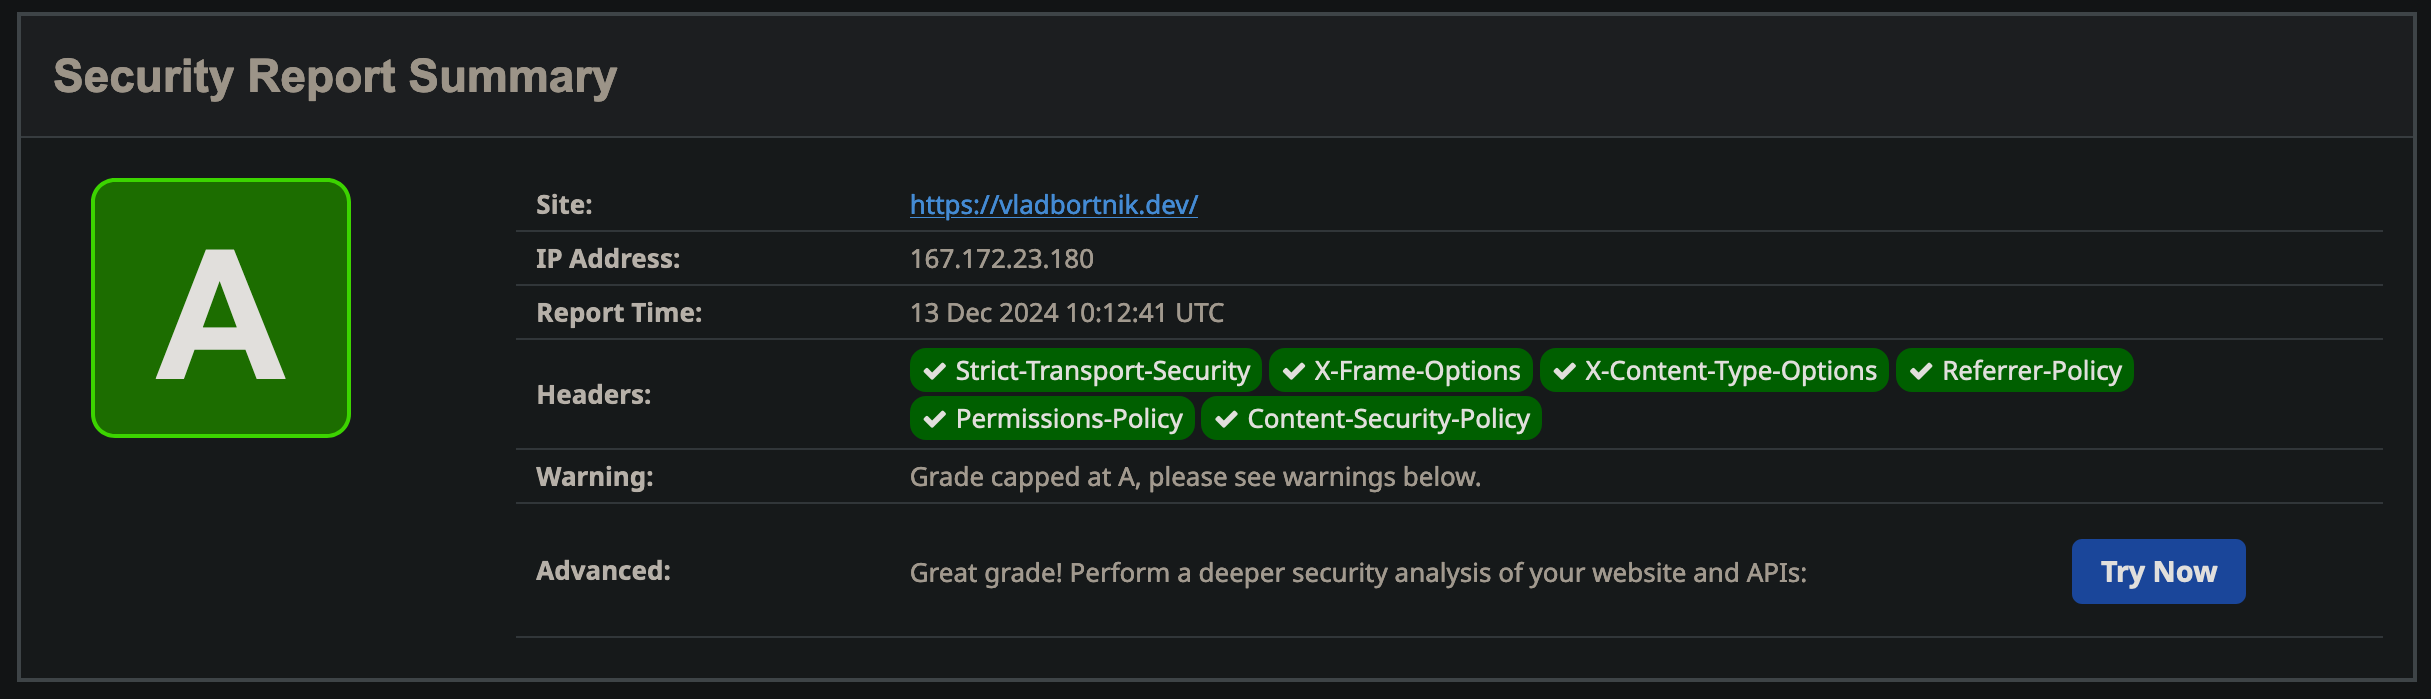
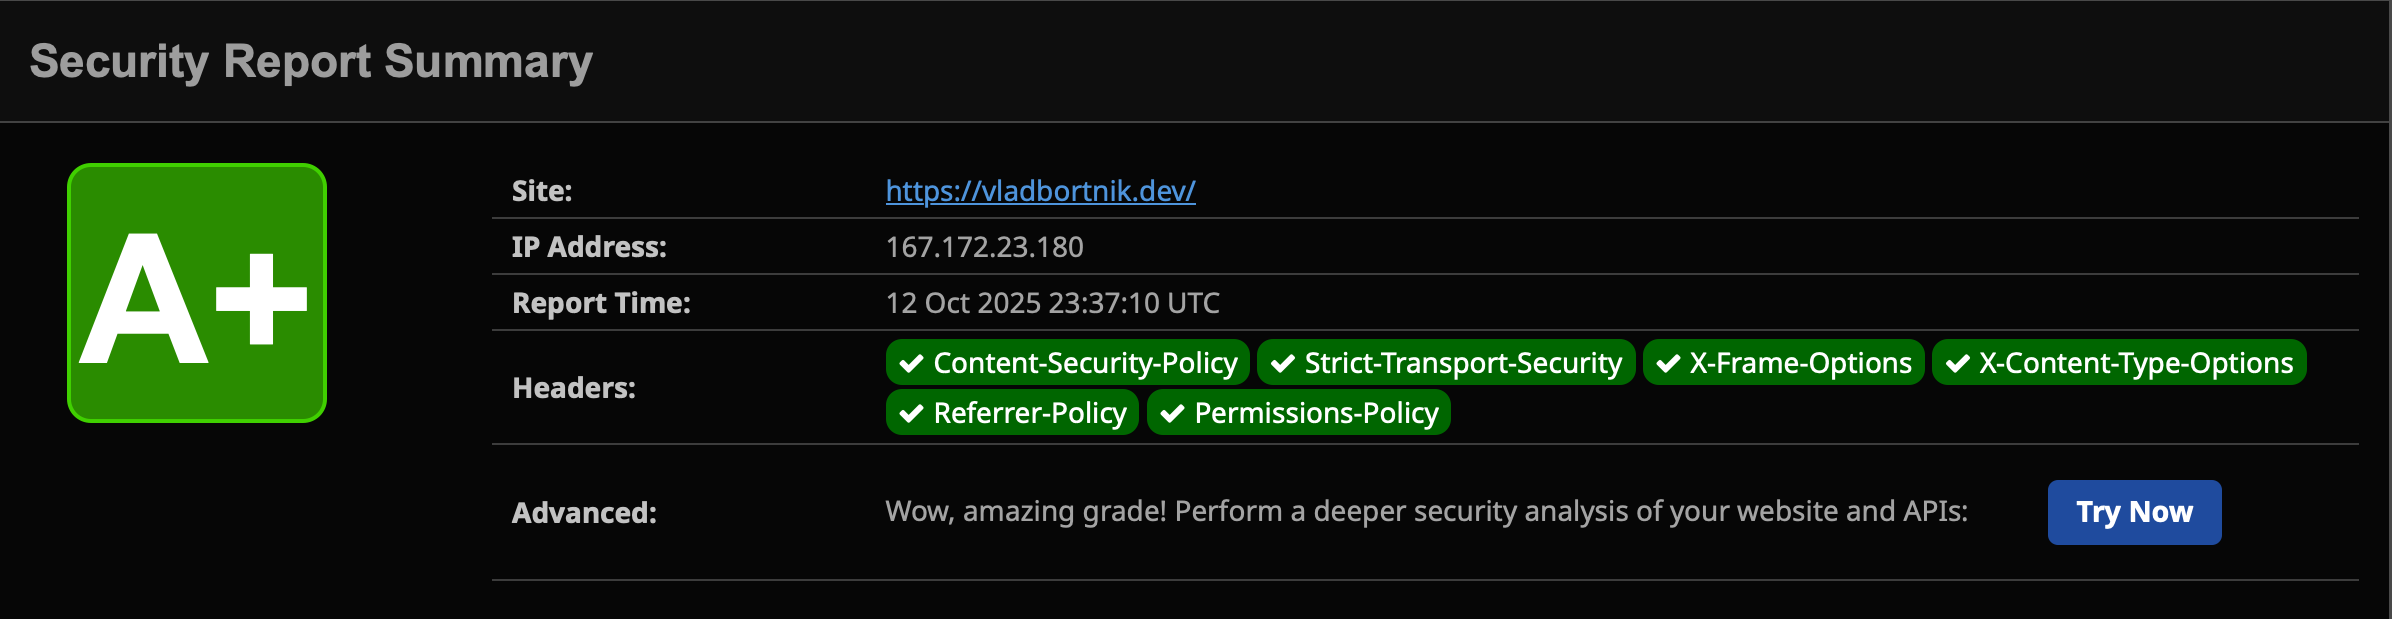
refactor: replace inline onclick handlers with CSP-compliant event listeners and update security header images

diff --git a/server-setup.html b/server-setup.html
@@ -56,9 +56,6 @@
   <!-- Main CSS File -->
   <link href="assets/css/server-setup.css" rel="stylesheet">
 
-  <!-- Umami Analytics -->
-  <script defer src="https://analytics.vladbortnik.dev/script.js" data-website-id="aa07340d-e426-4f86-a8f2-7736dd49d7aa"></script>
-
   <!-- Structured Data / Schema.org -->
   <script type="application/ld+json">
   {
@@ -865,6 +862,6 @@
   <!-- Main JS -->
   <script src="assets/js/server-setup.js"></script>
 
-<body>
+</body>
   
 </html>
